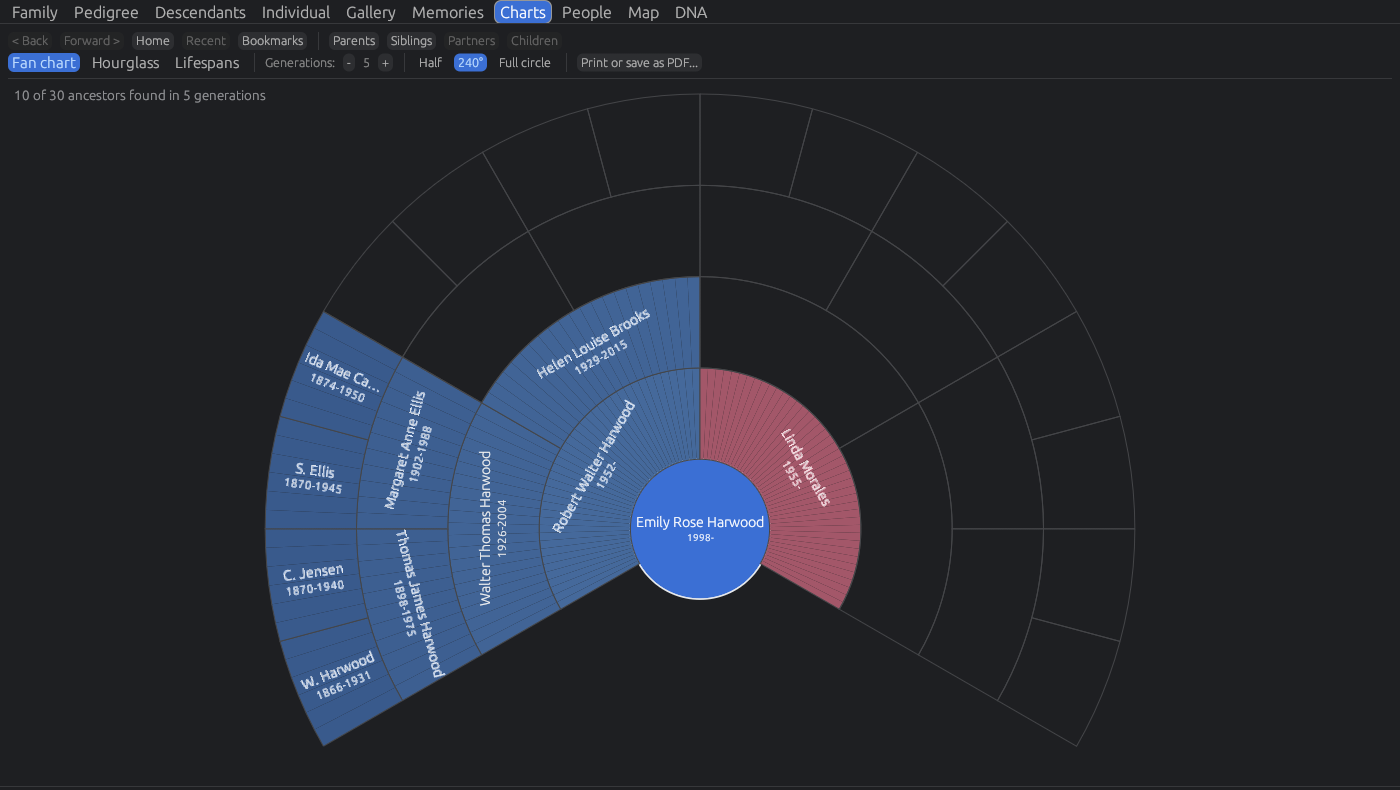
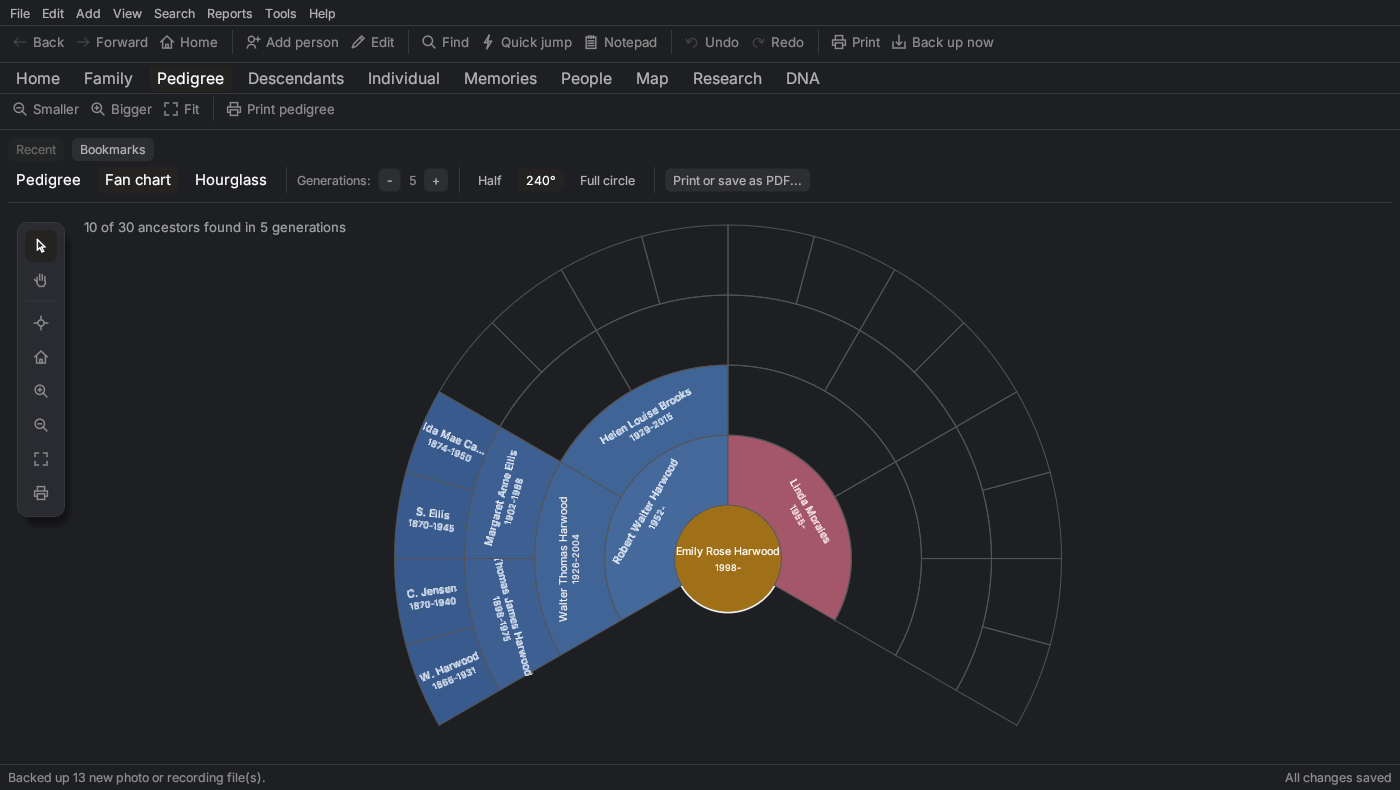
New screenshots for the website and the user guide
- The website's pedigree, person page, fan chart and map pictures, and the icon,
  retaken from the sample family in 1.0.9.
- The guide's welcome, tour, main window (numbered), add person, editing,
  family and memories pictures retaken; the screen-at-a-glance list updated.
- Facts boxes on a narrower window keep the dates from running into the next box.

Claude-Session: https://claude.ai/code/session_015GhtBSkaHmgPei7BVNGWBk

diff --git a/docs/index.html b/docs/index.html
@@ -178,7 +178,7 @@ footer .wrap{display:grid;gap:10px}
       <li>Windows, Mac and Linux</li>
       <li>Opens GEDCOM and PAF 5 files</li>
     </ul>
-    <div class="shot"><div class="bar"><i></i><i></i><i></i></div><img src="images/pedigree.png" alt="The pedigree view in Gilded Roots, showing four generations of a sample family" width="1400" height="560"></div>
+    <div class="shot"><div class="bar"><i></i><i></i><i></i></div><img src="images/pedigree.png" alt="The pedigree in Gilded Roots: photo cards for four generations of a sample family, with spouse, children and siblings listed under the main person" width="1400" height="790"></div>
   </div>
 </section>
 
@@ -195,7 +195,7 @@ footer .wrap{display:grid;gap:10px}
       </ol>
       <p class="note">Your original file is never changed. A PAF 5 <code>.paf</code> file brings in names, dates, places and all family links. For christenings, burials, LDS ordinances, notes and sources, export a GEDCOM from PAF (File › Export) and import that instead.</p>
     </div>
-    <div class="shot"><div class="bar"><i></i><i></i><i></i></div><img src="images/individual.png" alt="A person's page in Gilded Roots with vital facts, timeline, relationships and research to-do list" width="1400" height="790" loading="lazy"></div>
+    <div class="shot"><div class="bar"><i></i><i></i><i></i></div><img src="images/individual.png" alt="A person's page in Gilded Roots with tabs for facts, timeline, memories, sources, notes and research, and relationships on the right" width="1400" height="790" loading="lazy"></div>
   </div>
 </section>
 
@@ -284,13 +284,13 @@ footer .wrap{display:grid;gap:10px}
         <div class="eyebrow">Charts and reports</div>
         <h2>See your family at a glance.</h2>
         <ul>
-          <li>Pedigree, family, descendant and individual views</li>
-          <li>Fan, hourglass and lifespan charts</li>
+          <li>Pedigree, family, descendant and individual views, on a canvas you drag like the genealogy websites</li>
+          <li>Fan chart and hourglass on the Pedigree tab, and family lifespans on each person's timeline</li>
           <li>Printable family group sheets and pedigree charts</li>
           <li>Blank forms to fill in by hand, including LDS versions and census worksheets for the US, Canada and England and Wales</li>
         </ul>
       </div>
-      <div class="shot"><div class="bar"><i></i><i></i><i></i></div><img src="images/fan-chart.png" alt="A fan chart of ancestors" width="1400" height="790" loading="lazy"></div>
+      <div class="shot"><div class="bar"><i></i><i></i><i></i></div><img src="images/fan-chart.png" alt="A fan chart of ancestors on the Pedigree tab" width="1400" height="790" loading="lazy"></div>
     </div>
 
     <div class="feat flip">

diff --git a/src/person.rs b/src/person.rs
@@ -13,7 +13,7 @@ impl App {
         // A value laid out at a set width (wrapping only text longer than that), so inside a grid
         // it keeps its width; a plain wrapping label there shrinks to one word per line.
         let val = |ui: &mut egui::Ui, t: &str| {
-            let w = (box_w - 200.0).clamp(160.0, 720.0);
+            let w = (box_w - 250.0).clamp(140.0, 720.0);
             let g = ui.fonts(|f| f.layout(t.to_string(), FontId::proportional(15.0), ui.visuals().text_color(), w));
             ui.add(egui::Label::new(g));
         };

diff --git a/docs/USER_GUIDE.md b/docs/USER_GUIDE.md
@@ -78,15 +78,16 @@ practice mode. Try anything: nothing is saved, and your own tree is not touched.
 ![The main window](images/guide/screen.png)
 
 1. **Menus:** File, Edit, Add, View, Search, Reports, Tools and Help. Everything the program does is in a menu.
-2. **Main toolbar:** Back, Forward, Home, Add person, Edit, Find, Quick jump, Undo, Redo, Print and Back up now.
-   It is the same on every tab.
-3. **Tabs:** Family, Pedigree, Descendants, Individual, Memories, Charts, People, Map and DNA. Each shows your tree
-   a different way (Ctrl+1 to Ctrl+9; Cmd on a Mac).
+2. **Main toolbar:** Back, Forward, Home, Add person, Edit, Find, Quick jump, Notepad, Undo, Redo, Print and Back up
+   now. It is the same on every tab.
+3. **Tabs:** Home, Family, Pedigree, Descendants, Individual, Memories, People, Map, Research and DNA. Each shows your
+   tree a different way (Ctrl+1 to Ctrl+9; Cmd on a Mac).
 4. **Tab toolbar:** buttons for the tab that is open, such as **Add father** on the Family tab.
-5. **Getting around:** the trail of people you have visited, Recent, Bookmarks, and buttons listing the selected
-   person's parents, brothers and sisters, partners and children.
-6. **The chart or page itself.** Click a person to highlight them; double-click to open their page.
+5. **Getting around:** the trail of people you have visited (on the Pedigree tab), **Recent** and **Bookmarks**.
+6. **The chart or page itself.** Click a person to highlight them; double-click to open their page. Drag an empty
+   part of a chart, or scroll, to move it.
 7. **Status bar:** what just happened, and whether your changes are saved.
+8. **Floating toolbar** beside the charts: Select or Hand, Centre, the home person, zoom, fit and print.
 
 Hover over any button to see what it does and its keyboard shortcut.
 
